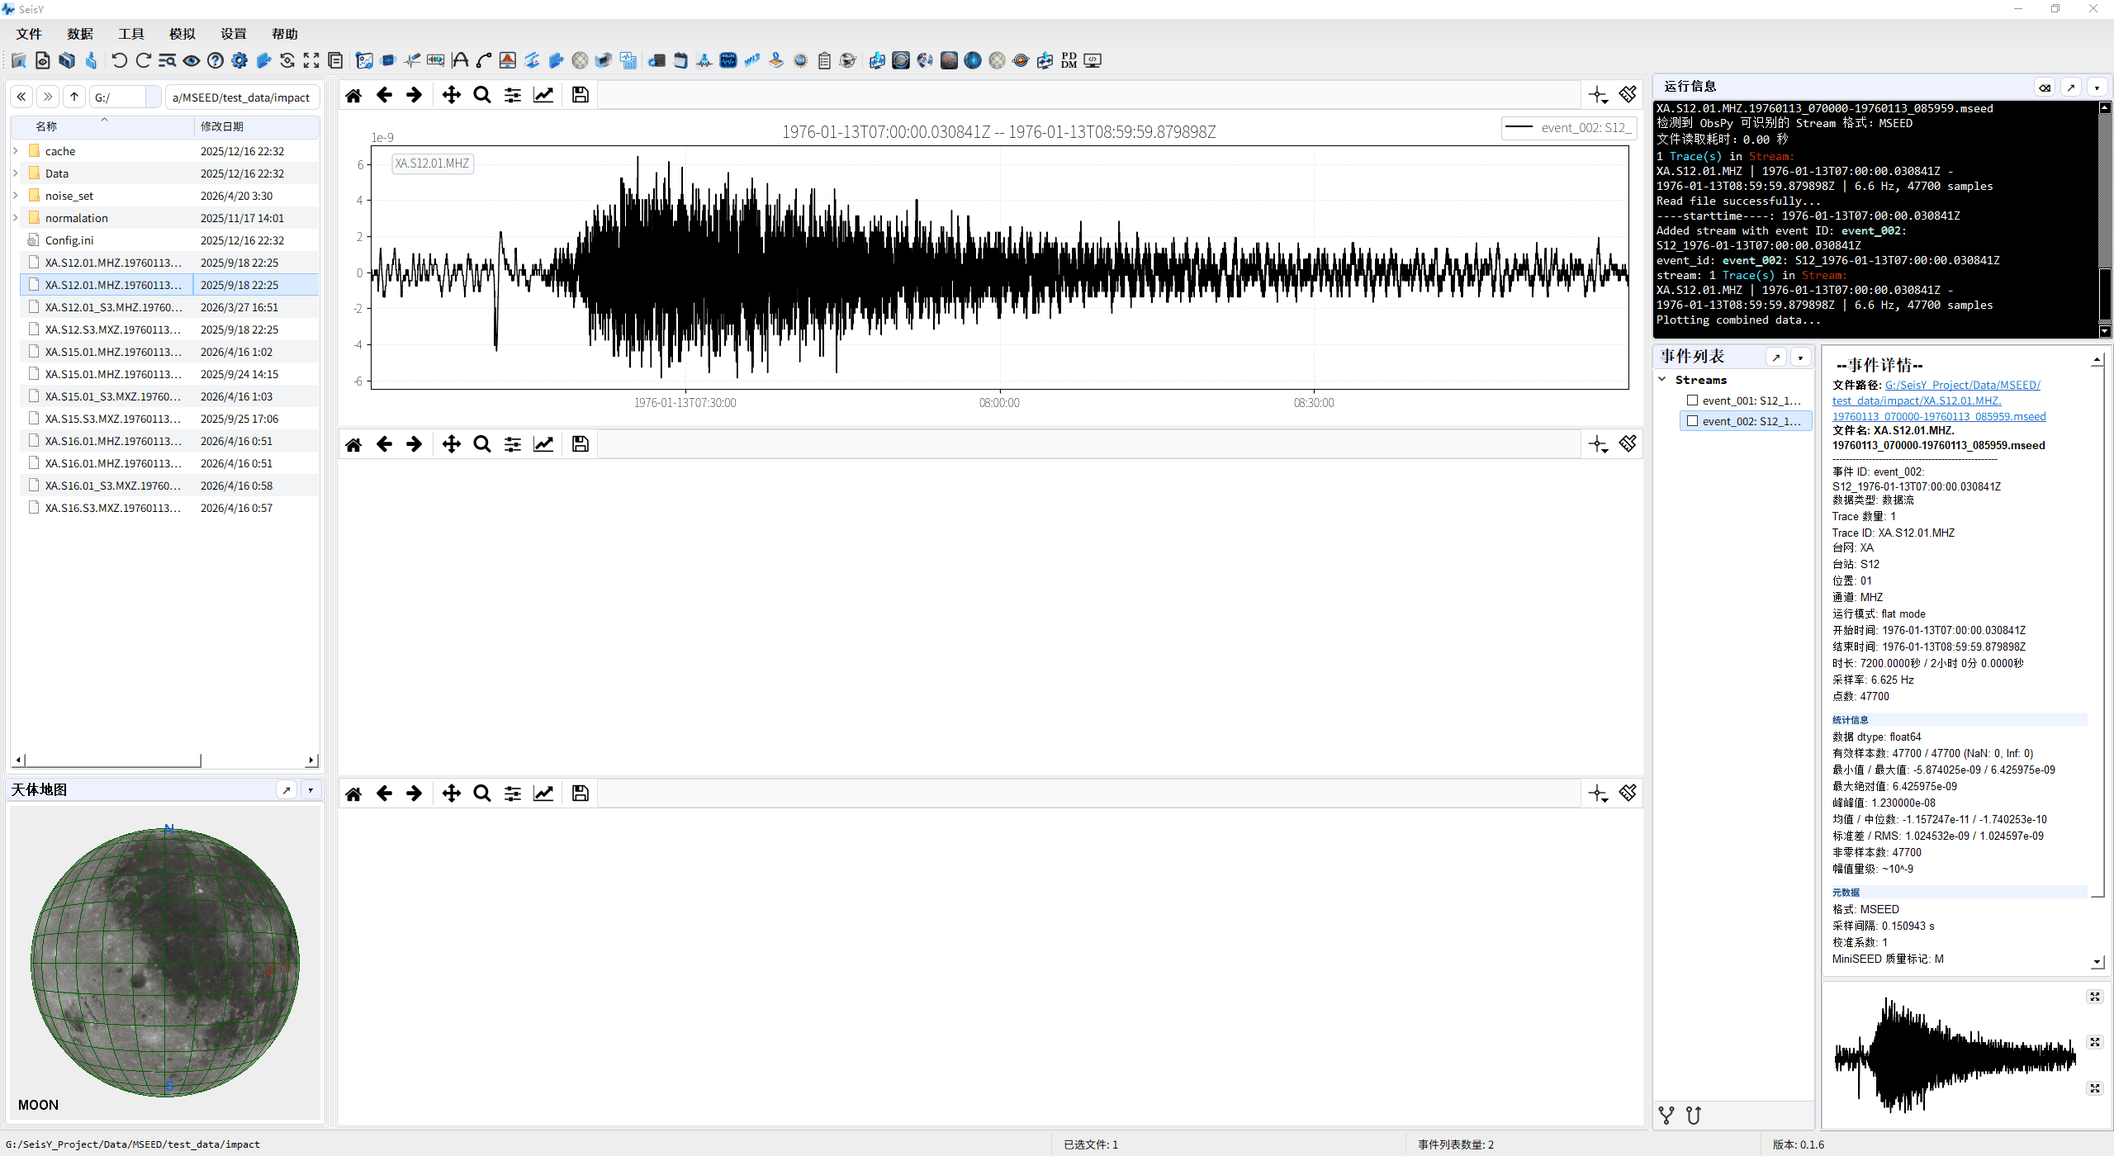
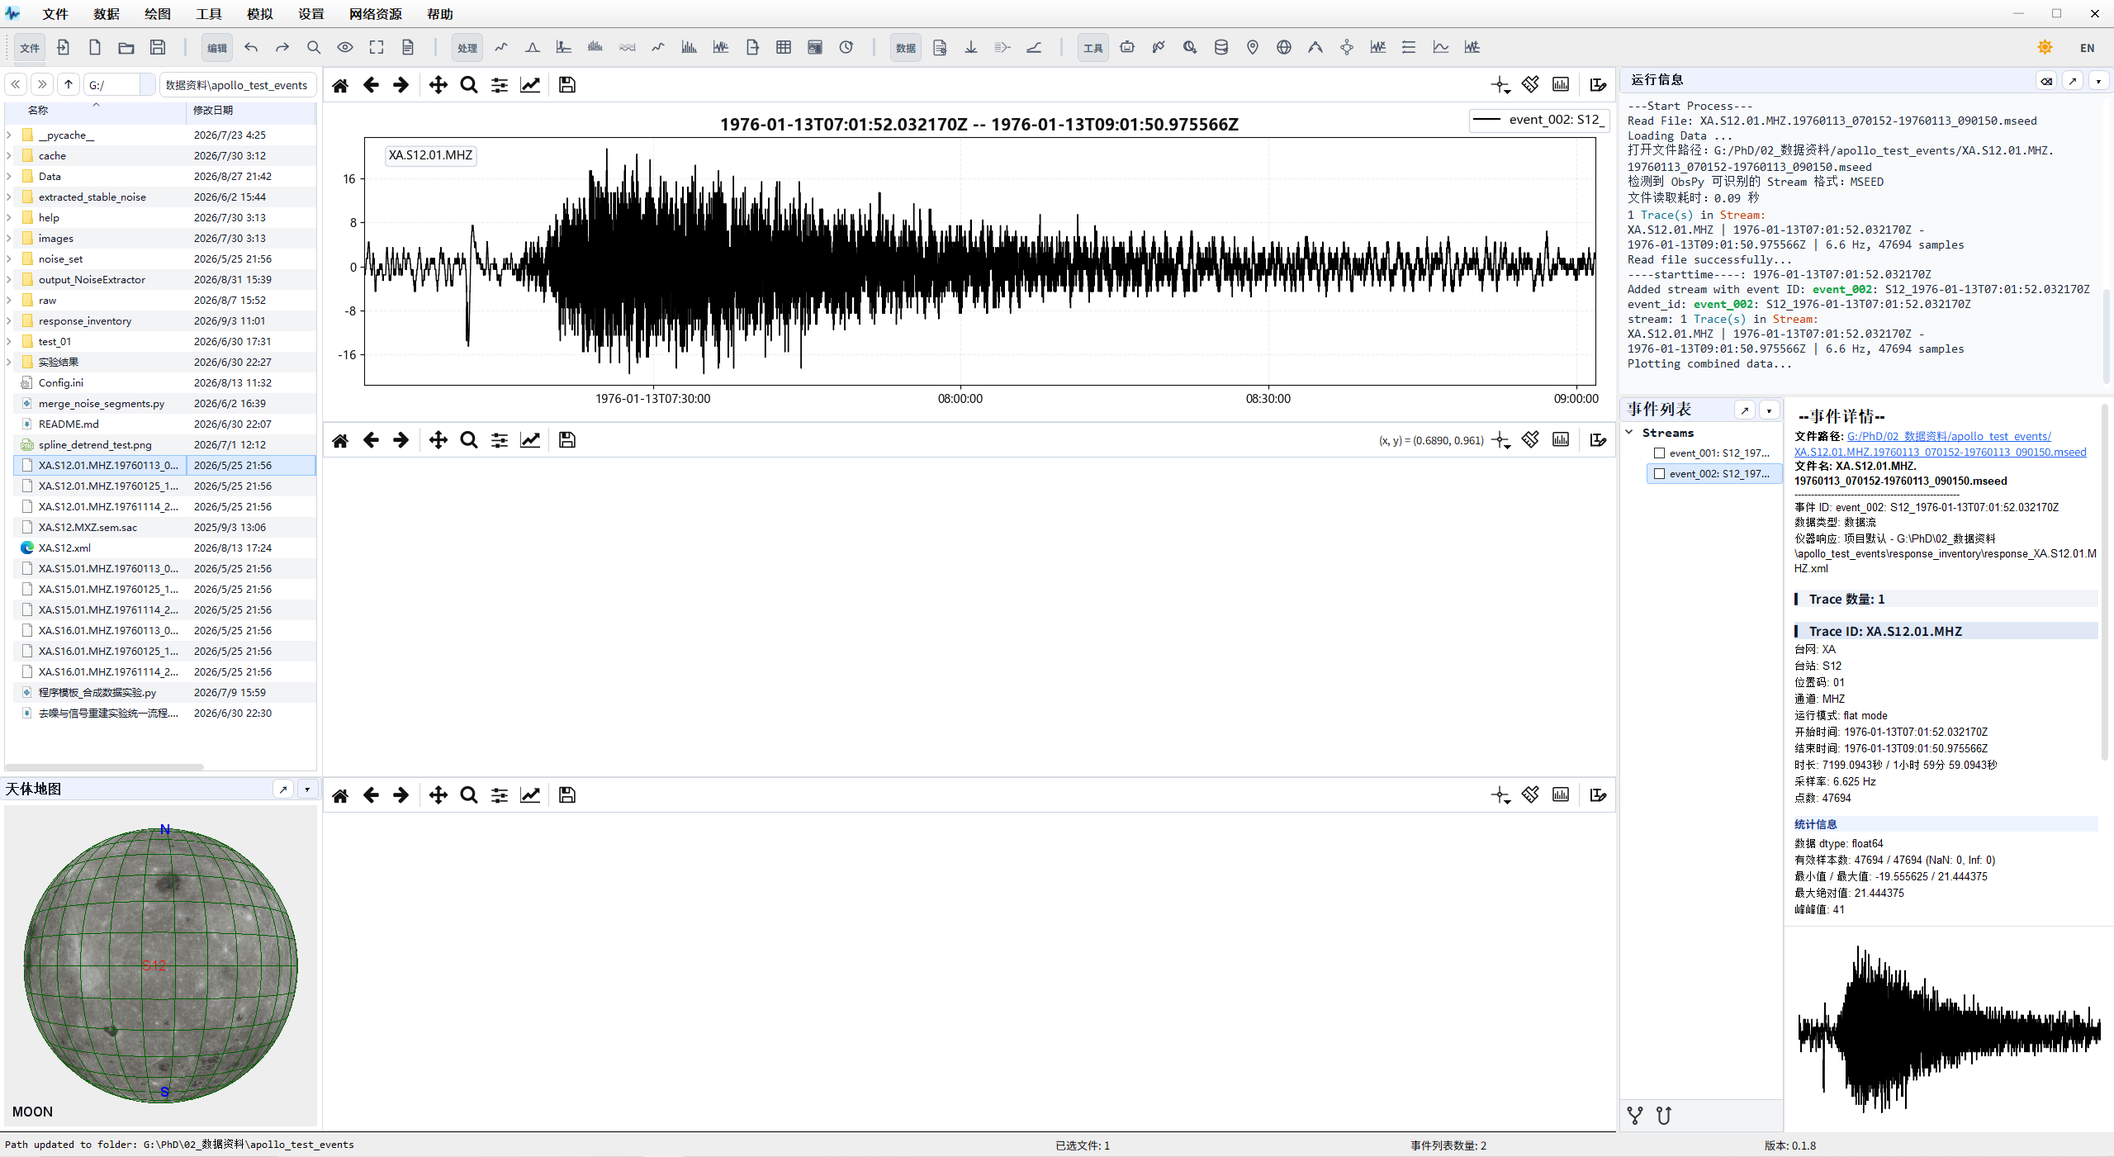
SeisY: add sliding correlation analyzer screenshot card; update main UI image to v0.1.8; drop more-tools block

diff --git a/documents/seisy_user_guide.html b/documents/seisy_user_guide.html
@@ -534,7 +534,7 @@
 
         <section id="tool-matrix" class="section">
           <div class="section-header"><h2>专业工具矩阵</h2><p>把“工具”和“模拟”中的核心模块集中呈现，便于快速理解 SeisY 的能力范围。</p></div>
-          <div class="section-body"><div class="grid-3"><div class="card"><h4>震源定位器</h4><p>台站、波形、拾取、模型、结果与地图一体化定位窗口。</p><img src="../static/images/SeisY/SeisY-Hypocenter_locator.png" alt="震源定位器截图" style="border-radius:12px; border:1px solid var(--line); margin-top:10px;" /></div><div class="card"><h4>行星台站地图</h4><p>用于台站 / 震源管理、震中距计算、到时预测与导出。</p><img src="../static/images/SeisY/SeisY-Planetary_station_map.png" alt="行星台站地图截图" style="border-radius:12px; border:1px solid var(--line); margin-top:10px;" /></div><div class="card"><h4>射线追踪工作台</h4><p>用于射线路径和起射角搜索。</p><img src="../static/images/SeisY/SeisY-RayTracer.png" alt="射线追踪工作台截图" style="border-radius:12px; border:1px solid var(--line); margin-top:10px;" /></div><div class="card"><h4>简正模工作台</h4><p>执行简正模计算、模态分析、观测谱对照与合成。</p><img src="../static/images/SeisY/SeisY-normal_mode.png" alt="简正模工作台截图" style="border-radius:12px; border:1px solid var(--line); margin-top:10px;" /></div><div class="card"><h4>模型设计器</h4><p>1D / 准 1D 模型设计器，是简正模模块的上游工具。</p><img src="../static/images/SeisY/SeisY-models_design.png" alt="模型设计器截图" style="border-radius:12px; border:1px solid var(--line); margin-top:10px;" /></div><div class="card"><h4>Apollo 系统</h4><p>用于 Apollo 月震数据的批量下载、提取与可视化。</p><img src="../static/images/SeisY/SeisY-Apollo_data_management.png" alt="Apollo 系统截图" style="border-radius:12px; border:1px solid var(--line); margin-top:10px;" /></div><div class="card"><h4>AI 助手</h4><p>多轮对话科研助手，可执行命令、管理历史并给出上下文推荐。</p><img src="../static/images/SeisY/SeisY-AI_assistant_v2.png" alt="AI 助手截图" style="border-radius:12px; border:1px solid var(--line); margin-top:10px;" /></div><div class="card"><h4>异常修复引擎</h4><p>异常段检测、频谱替换修复、缺失值插值与修复报告。</p><img src="../static/images/SeisY/SeisY-Anomaly_repair.png" alt="异常修复引擎截图" style="border-radius:12px; border:1px solid var(--line); margin-top:10px;" /></div><div class="card"><h4>仪器响应管理器</h4><p>FDSN 响应下载、Inventory 查看、幅频 / 相位曲线与去响应。</p><img src="../static/images/SeisY/SeisY-Instrument_response_manager.png" alt="仪器响应管理器截图" style="border-radius:12px; border:1px solid var(--line); margin-top:10px;" /></div><div class="card"><h4>3D 月球地质图</h4><p>OpenGL 球面渲染 + USGS 月球统一地质图 GIS 叠加。</p><img src="../static/images/SeisY/SeisY-Lunar_geology_map_3D.png" alt="3D 月球地质图截图" style="border-radius:12px; border:1px solid var(--line); margin-top:10px;" /></div><div class="card"><h4>数据全览面板</h4><p>事件波形、频谱与统计信息的多维度异步预览。</p><img src="../static/images/SeisY/SeisY-Data_overview.png" alt="数据全览面板截图" style="border-radius:12px; border:1px solid var(--line); margin-top:10px;" /></div><div class="card"><h4>月震扫描器</h4><p>平坦 / 尖峰 / 全模式批量筛查，输出 SNR 与稳定性评分。</p><img src="../static/images/SeisY/SeisY-Moonquake_scanner.png" alt="月震扫描器截图" style="border-radius:12px; border:1px solid var(--line); margin-top:10px;" /></div><div class="card"><h4>噪声提取器</h4><p>自动噪声提取，含月震规避与滑动窗口稳定性评估。</p><img src="../static/images/SeisY/SeisY-Noise_extractor.png" alt="噪声提取器截图" style="border-radius:12px; border:1px solid var(--line); margin-top:10px;" /></div></div></div>
+          <div class="section-body"><div class="grid-3"><div class="card"><h4>震源定位器</h4><p>台站、波形、拾取、模型、结果与地图一体化定位窗口。</p><img src="../static/images/SeisY/SeisY-Hypocenter_locator.png" alt="震源定位器截图" style="border-radius:12px; border:1px solid var(--line); margin-top:10px;" /></div><div class="card"><h4>行星台站地图</h4><p>用于台站 / 震源管理、震中距计算、到时预测与导出。</p><img src="../static/images/SeisY/SeisY-Planetary_station_map.png" alt="行星台站地图截图" style="border-radius:12px; border:1px solid var(--line); margin-top:10px;" /></div><div class="card"><h4>射线追踪工作台</h4><p>用于射线路径和起射角搜索。</p><img src="../static/images/SeisY/SeisY-RayTracer.png" alt="射线追踪工作台截图" style="border-radius:12px; border:1px solid var(--line); margin-top:10px;" /></div><div class="card"><h4>简正模工作台</h4><p>执行简正模计算、模态分析、观测谱对照与合成。</p><img src="../static/images/SeisY/SeisY-normal_mode.png" alt="简正模工作台截图" style="border-radius:12px; border:1px solid var(--line); margin-top:10px;" /></div><div class="card"><h4>模型设计器</h4><p>1D / 准 1D 模型设计器，是简正模模块的上游工具。</p><img src="../static/images/SeisY/SeisY-models_design.png" alt="模型设计器截图" style="border-radius:12px; border:1px solid var(--line); margin-top:10px;" /></div><div class="card"><h4>Apollo 系统</h4><p>用于 Apollo 月震数据的批量下载、提取与可视化。</p><img src="../static/images/SeisY/SeisY-Apollo_data_management.png" alt="Apollo 系统截图" style="border-radius:12px; border:1px solid var(--line); margin-top:10px;" /></div><div class="card"><h4>AI 助手</h4><p>多轮对话科研助手，可执行命令、管理历史并给出上下文推荐。</p><img src="../static/images/SeisY/SeisY-AI_assistant_v2.png" alt="AI 助手截图" style="border-radius:12px; border:1px solid var(--line); margin-top:10px;" /></div><div class="card"><h4>异常修复引擎</h4><p>异常段检测、频谱替换修复、缺失值插值与修复报告。</p><img src="../static/images/SeisY/SeisY-Anomaly_repair.png" alt="异常修复引擎截图" style="border-radius:12px; border:1px solid var(--line); margin-top:10px;" /></div><div class="card"><h4>仪器响应管理器</h4><p>FDSN 响应下载、Inventory 查看、幅频 / 相位曲线与去响应。</p><img src="../static/images/SeisY/SeisY-Instrument_response_manager.png" alt="仪器响应管理器截图" style="border-radius:12px; border:1px solid var(--line); margin-top:10px;" /></div><div class="card"><h4>3D 月球地质图</h4><p>OpenGL 球面渲染 + USGS 月球统一地质图 GIS 叠加。</p><img src="../static/images/SeisY/SeisY-Lunar_geology_map_3D.png" alt="3D 月球地质图截图" style="border-radius:12px; border:1px solid var(--line); margin-top:10px;" /></div><div class="card"><h4>数据全览面板</h4><p>事件波形、频谱与统计信息的多维度异步预览。</p><img src="../static/images/SeisY/SeisY-Data_overview.png" alt="数据全览面板截图" style="border-radius:12px; border:1px solid var(--line); margin-top:10px;" /></div><div class="card"><h4>月震扫描器</h4><p>平坦 / 尖峰 / 全模式批量筛查，输出 SNR 与稳定性评分。</p><img src="../static/images/SeisY/SeisY-Moonquake_scanner.png" alt="月震扫描器截图" style="border-radius:12px; border:1px solid var(--line); margin-top:10px;" /></div><div class="card"><h4>噪声提取器</h4><p>自动噪声提取，含月震规避与滑动窗口稳定性评估。</p><img src="../static/images/SeisY/SeisY-Noise_extractor.png" alt="噪声提取器截图" style="border-radius:12px; border:1px solid var(--line); margin-top:10px;" /></div><div class="card"><h4>滑动相关分析器</h4><p>长时程与短时程波形的滑动相关分析，Step / Threshold 参数控制，自动定位最佳匹配片段并支持保存为事件。</p><img src="../static/images/SeisY/SeisY-Sliding_correlation.png" alt="滑动相关分析器截图" style="border-radius:12px; border:1px solid var(--line); margin-top:10px;" /></div></div></div>
         </section>
 
         <section id="panel-usage" class="section">
@@ -779,7 +779,7 @@
 
         <section id="tool-matrix" class="section">
           <div class="section-header"><h2>Tool matrix</h2><p>A condensed view of the most distinctive tools under Tools and Simulation.</p></div>
-          <div class="section-body"><div class="grid-3"><div class="card"><h4>Hypocenter Locator</h4><p>Integrated location window for stations, waveforms, picks, models, results, and maps.</p><img src="../static/images/SeisY/SeisY-Hypocenter_locator.png" alt="Hypocenter Locator" style="border-radius:12px; border:1px solid var(--line); margin-top:10px;" /></div><div class="card"><h4>Planetary Station Map</h4><p>Station/source management, epicentral distance calculation, travel-time prediction, and export.</p><img src="../static/images/SeisY/SeisY-Planetary_station_map.png" alt="Planetary Station Map" style="border-radius:12px; border:1px solid var(--line); margin-top:10px;" /></div><div class="card"><h4>RayTracer</h4><p>Workbench for ray-path and takeoff-angle search.</p><img src="../static/images/SeisY/SeisY-RayTracer.png" alt="RayTracer" style="border-radius:12px; border:1px solid var(--line); margin-top:10px;" /></div><div class="card"><h4>Normal Mode Workbench</h4><p>Normal-mode computation, modal analysis, observed spectrum comparison, and synthesis.</p><img src="../static/images/SeisY/SeisY-normal_mode.png" alt="Normal Mode Workbench" style="border-radius:12px; border:1px solid var(--line); margin-top:10px;" /></div><div class="card"><h4>Models Design</h4><p>1D / quasi-1D model designer used upstream of normal-mode analysis.</p><img src="../static/images/SeisY/SeisY-models_design.png" alt="Models Design" style="border-radius:12px; border:1px solid var(--line); margin-top:10px;" /></div><div class="card"><h4>Apollo System</h4><p>Batch download, extraction, and visualization of Apollo moonquake data.</p><img src="../static/images/SeisY/SeisY-Apollo_data_management.png" alt="Apollo System" style="border-radius:12px; border:1px solid var(--line); margin-top:10px;" /></div><div class="card"><h4>AI Assistant</h4><p>Multi-turn dialogue research assistant with command execution and context-aware suggestions.</p><img src="../static/images/SeisY/SeisY-AI_assistant_v2.png" alt="AI Assistant" style="border-radius:12px; border:1px solid var(--line); margin-top:10px;" /></div><div class="card"><h4>Anomaly Repair Engine</h4><p>Anomaly detection, spectrum-based repair, missing-value interpolation, and repair reports.</p><img src="../static/images/SeisY/SeisY-Anomaly_repair.png" alt="Anomaly Repair Engine" style="border-radius:12px; border:1px solid var(--line); margin-top:10px;" /></div><div class="card"><h4>Instrument Response Manager</h4><p>FDSN response download, inventory inspection, amplitude/phase curves, and de-response.</p><img src="../static/images/SeisY/SeisY-Instrument_response_manager.png" alt="Instrument Response Manager" style="border-radius:12px; border:1px solid var(--line); margin-top:10px;" /></div><div class="card"><h4>3D Lunar Geology Map</h4><p>OpenGL lunar sphere rendering with USGS unified lunar geology GIS overlay.</p><img src="../static/images/SeisY/SeisY-Lunar_geology_map_3D.png" alt="3D Lunar Geology Map" style="border-radius:12px; border:1px solid var(--line); margin-top:10px;" /></div><div class="card"><h4>Data Overview Panel</h4><p>Multi-dimensional asynchronous preview of event waveforms, spectra, and statistics.</p><img src="../static/images/SeisY/SeisY-Data_overview.png" alt="Data Overview Panel" style="border-radius:12px; border:1px solid var(--line); margin-top:10px;" /></div><div class="card"><h4>Moonquake Scanner</h4><p>Flat/spike/full batch scanning with SNR and stability scoring.</p><img src="../static/images/SeisY/SeisY-Moonquake_scanner.png" alt="Moonquake Scanner" style="border-radius:12px; border:1px solid var(--line); margin-top:10px;" /></div><div class="card"><h4>Noise Extractor</h4><p>Automated noise extraction with moonquake avoidance and stability assessment.</p><img src="../static/images/SeisY/SeisY-Noise_extractor.png" alt="Noise Extractor" style="border-radius:12px; border:1px solid var(--line); margin-top:10px;" /></div></div></div>
+          <div class="section-body"><div class="grid-3"><div class="card"><h4>Hypocenter Locator</h4><p>Integrated location window for stations, waveforms, picks, models, results, and maps.</p><img src="../static/images/SeisY/SeisY-Hypocenter_locator.png" alt="Hypocenter Locator" style="border-radius:12px; border:1px solid var(--line); margin-top:10px;" /></div><div class="card"><h4>Planetary Station Map</h4><p>Station/source management, epicentral distance calculation, travel-time prediction, and export.</p><img src="../static/images/SeisY/SeisY-Planetary_station_map.png" alt="Planetary Station Map" style="border-radius:12px; border:1px solid var(--line); margin-top:10px;" /></div><div class="card"><h4>RayTracer</h4><p>Workbench for ray-path and takeoff-angle search.</p><img src="../static/images/SeisY/SeisY-RayTracer.png" alt="RayTracer" style="border-radius:12px; border:1px solid var(--line); margin-top:10px;" /></div><div class="card"><h4>Normal Mode Workbench</h4><p>Normal-mode computation, modal analysis, observed spectrum comparison, and synthesis.</p><img src="../static/images/SeisY/SeisY-normal_mode.png" alt="Normal Mode Workbench" style="border-radius:12px; border:1px solid var(--line); margin-top:10px;" /></div><div class="card"><h4>Models Design</h4><p>1D / quasi-1D model designer used upstream of normal-mode analysis.</p><img src="../static/images/SeisY/SeisY-models_design.png" alt="Models Design" style="border-radius:12px; border:1px solid var(--line); margin-top:10px;" /></div><div class="card"><h4>Apollo System</h4><p>Batch download, extraction, and visualization of Apollo moonquake data.</p><img src="../static/images/SeisY/SeisY-Apollo_data_management.png" alt="Apollo System" style="border-radius:12px; border:1px solid var(--line); margin-top:10px;" /></div><div class="card"><h4>AI Assistant</h4><p>Multi-turn dialogue research assistant with command execution and context-aware suggestions.</p><img src="../static/images/SeisY/SeisY-AI_assistant_v2.png" alt="AI Assistant" style="border-radius:12px; border:1px solid var(--line); margin-top:10px;" /></div><div class="card"><h4>Anomaly Repair Engine</h4><p>Anomaly detection, spectrum-based repair, missing-value interpolation, and repair reports.</p><img src="../static/images/SeisY/SeisY-Anomaly_repair.png" alt="Anomaly Repair Engine" style="border-radius:12px; border:1px solid var(--line); margin-top:10px;" /></div><div class="card"><h4>Instrument Response Manager</h4><p>FDSN response download, inventory inspection, amplitude/phase curves, and de-response.</p><img src="../static/images/SeisY/SeisY-Instrument_response_manager.png" alt="Instrument Response Manager" style="border-radius:12px; border:1px solid var(--line); margin-top:10px;" /></div><div class="card"><h4>3D Lunar Geology Map</h4><p>OpenGL lunar sphere rendering with USGS unified lunar geology GIS overlay.</p><img src="../static/images/SeisY/SeisY-Lunar_geology_map_3D.png" alt="3D Lunar Geology Map" style="border-radius:12px; border:1px solid var(--line); margin-top:10px;" /></div><div class="card"><h4>Data Overview Panel</h4><p>Multi-dimensional asynchronous preview of event waveforms, spectra, and statistics.</p><img src="../static/images/SeisY/SeisY-Data_overview.png" alt="Data Overview Panel" style="border-radius:12px; border:1px solid var(--line); margin-top:10px;" /></div><div class="card"><h4>Moonquake Scanner</h4><p>Flat/spike/full batch scanning with SNR and stability scoring.</p><img src="../static/images/SeisY/SeisY-Moonquake_scanner.png" alt="Moonquake Scanner" style="border-radius:12px; border:1px solid var(--line); margin-top:10px;" /></div><div class="card"><h4>Noise Extractor</h4><p>Automated noise extraction with moonquake avoidance and stability assessment.</p><img src="../static/images/SeisY/SeisY-Noise_extractor.png" alt="Noise Extractor" style="border-radius:12px; border:1px solid var(--line); margin-top:10px;" /></div><div class="card"><h4>Sliding Correlation Analyzer</h4><p>Sliding correlation between long and short windows with Step/Threshold control; locates the best-matching segment and can save it as an event.</p><img src="../static/images/SeisY/SeisY-Sliding_correlation.png" alt="Sliding Correlation Analyzer" style="border-radius:12px; border:1px solid var(--line); margin-top:10px;" /></div></div></div>
         </section>
 
                 <section id="panel-usage" class="section">

diff --git a/HTML/SeisY.html b/HTML/SeisY.html
@@ -135,7 +135,7 @@
                             <span class="project-shot-dot" style="background:#febc2e;"></span>
                             <span class="project-shot-dot" style="background:#28c840;"></span>
                         </div>
-                        <img src="../static/images/SeisY/SeisY-main-v0.1.7-black.png" alt="SeisY 主界面截图" class="w-full h-auto">
+                        <img src="../static/images/SeisY/SeisY-main.png" alt="SeisY 主界面截图" class="w-full h-auto">
                     </div>
                 </div>
             </div>
@@ -539,12 +539,13 @@
                         <p class="text-dark/70 text-sm">波形、包络、能量、直方图、FFT、PSD、时频、自相关、瞬频、峰态、过零率、熵等 12 张预览卡。</p>
                     </div>
                 </div>
-            </div>
 
-            <div class="max-w-4xl mx-auto mt-12">
-                <h3 class="text-xl font-semibold mb-6 text-center">更多内置工具</h3>
-                <div class="grid sm:grid-cols-2 lg:grid-cols-3 gap-4">
-                    <div class="bg-gray-50 rounded-xl p-5 card-hover"><h4 class="font-semibold mb-1 flex items-center"><i class="fa fa-chart-line text-primary mr-2"></i>滑动相关分析</h4><p class="text-dark/70 text-sm">长时噪声中滑动查找高相关片段。</p></div>
+                <div class="bg-gray-50 rounded-xl overflow-hidden shadow-md card-hover">
+                    <img src="../static/images/SeisY/SeisY-Sliding_correlation.png" alt="滑动相关分析器" class="w-full h-48 object-cover object-top">
+                    <div class="p-5">
+                        <h3 class="text-lg font-semibold mb-2">滑动相关分析器</h3>
+                        <p class="text-dark/70 text-sm">长时程与短时程波形的滑动相关分析，Step 步长 / Threshold 阈值 / 绝对值比较，自动定位最佳匹配片段并支持保存为事件。</p>
+                    </div>
                 </div>
             </div>
         </div>
